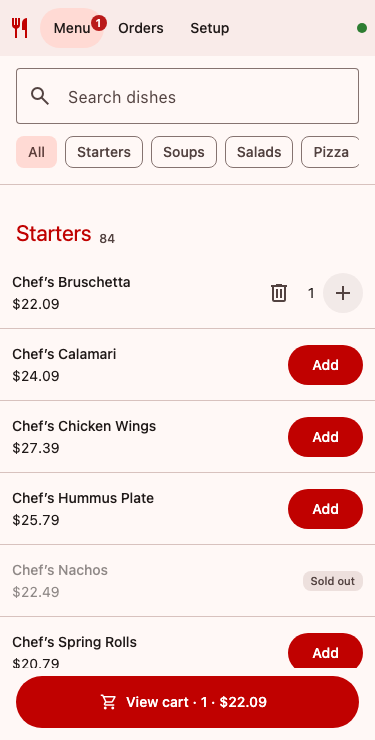
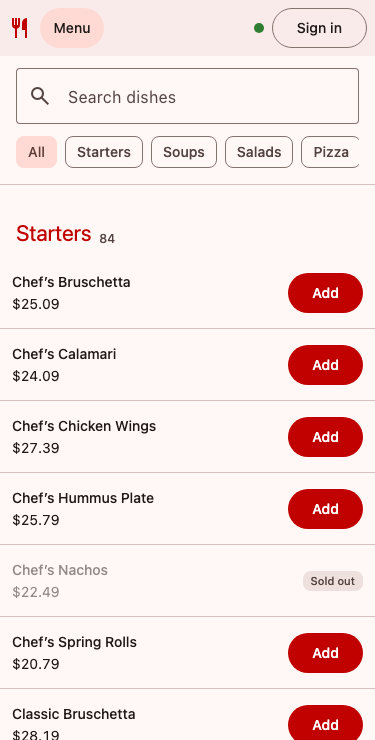
docs: README for auth, promo codes, outbox, observability, edge and scaling

diff --git a/README.md b/README.md
@@ -1,10 +1,10 @@
 # Restaurant Ordering — real-time prototype
 
-Angular 22 + NgRx client and a NestJS server with PostgreSQL, Redis and Socket.IO.
-Menu, prices and availability change live; orders are placed exactly once and
-their statuses update in real time.
+Angular 22 + NgRx client, NestJS API, PostgreSQL, Redis, Socket.IO, behind a Caddy edge.
+Menu, prices and availability change live; orders are placed exactly once; order statuses
+update in real time; promo codes, authentication and admin tools are included.
 
-![Menu with a live price change flagged in the cart](docs/menu-live-change.png)
+![Menu with a promo code applied](docs/menu.png)
 
 ## How to run
 
@@ -14,183 +14,215 @@ The only requirement is **Docker** (Docker Desktop or Docker Engine with Compose
 docker compose up --build
 ```
 
-Open **http://localhost:8080**. The first build takes a few minutes; later starts take seconds.
+Open **http://localhost:8080** (or **https://localhost:8443** for HTTP/2 + HTTP/3; the
+certificate comes from Caddy's local CA, so the browser asks to accept it once).
+The first build takes a few minutes.
 
-| Page | URL | What to try |
+| Account | Email | Password |
 |---|---|---|
-| Menu | `/menu` | Add items, use the quantity steppers, add an open-price item ("Catch of the Day", "Steak by Weight"…), set a discount, check out |
-| Orders | `/orders` | Statuses move `New → Accepted → Cooking → Ready → Completed` every 8 s |
-| Setup | `/setup` | Toggle availability / open price, edit prices, add or delete items and categories |
+| Customer | `guest@trattoria.local` | `guest12345` |
+| Admin | `admin@trattoria.local` | `admin12345` |
 
-Open Setup and Menu in two tabs (or two browsers) to see changes appear live.
+New customers can register on the sign-in page. Demo promo codes: `WELCOME10` (10% off,
+up to $5, once per customer) and `SAVE5` ($5 off orders from $30).
+
+| Page | Who | What to try |
+|---|---|---|
+| `/menu` | everyone | Browse ~1000 items, search, add to cart, open-price items, promo code, checkout (sign-in required) |
+| `/orders` | signed in | Own orders (admins: all, with customer names); statuses move every 8 s; older pages load on demand |
+| `/setup` | admin | Toggle availability / open price, edit, add, delete; edits by two admins at once are detected |
+| `/promos` | admin | Create and edit promo codes, switch them on and off |
+| `/api/docs` | everyone | OpenAPI (Swagger UI) generated from the shared contract |
+
+Open the menu as a customer and Setup as an admin in two browsers to see changes appear live.
 
 ```bash
 docker compose down        # stop
-docker compose down -v     # stop and wipe the database (the demo menu is re-seeded on next start)
+docker compose down -v     # stop and wipe data (the demo menu and accounts are re-created)
 ```
 
-What starts:
+### Observability stack (optional)
 
-```
-            host :8080
-                │
-   ┌────────────┴─────────────┐  network "frontend"
-   │ app (NestJS)             │
-   │  • REST API  /api/*      │
-   │  • Socket.IO /socket.io  │
-   │  • Angular build (static)│
-   └──────┬───────────┬───────┘  network "backend" (internal: no host / internet access)
-          │           │
-   ┌──────┴─────┐ ┌───┴──────┐
-   │ PostgreSQL │ │ Redis 7  │
-   │ 16         │ │          │
-   └────────────┘ └──────────┘
+```bash
+docker compose -f docker-compose.yml -f docker-compose.observability.yml up --build
 ```
 
-The app waits for healthy Postgres and Redis (`depends_on: service_healthy`), applies
-the schema and seeds a demo menu of ~1000 items on first start.
+Grafana http://localhost:3001 (dashboard "Trattoria API") · Prometheus http://localhost:9090 ·
+Alertmanager http://localhost:9093 · Jaeger http://localhost:16686 (traces of every request,
+including SQL and Redis calls). Error reporting goes to Sentry when `SENTRY_DSN` (server) and
+`SENTRY_DSN_CLIENT` (browser) are set.
 
 ### Development without Docker (optional)
 
 Node.js ≥ 22:
 
 ```bash
-npm install   # installs root, server and client dependencies
-npm start     # server on :3000 (in-memory storage) + Angular dev server on :4200
+npm install   # installs the shared contract package, the server and the client
+npm start     # API on :3000 with in-memory storage + Angular dev server on :4200
 ```
 
-Without `DATABASE_URL` / `REDIS_URL` the server uses in-memory implementations of the
-same interfaces, so no database is needed for development or tests.
+Without `DATABASE_URL` / `REDIS_URL` the API uses in-memory implementations of the same
+interfaces, so no database is needed for development or tests.
 
 ### Checks
 
 ```bash
-npm run check   # lint + all tests + production builds (client and server)
+npm run check   # lint + all tests + production builds
 ```
 
-- server: unit tests (pricing rules) and e2e tests through HTTP (idempotency, concurrent
-  double submit, menu-changed conflicts, validation, status updates) — Vitest + Supertest
-- client: reducers, selectors and effects (double click, retries with the same key,
-  stale real-time events, optimistic rollback) — Vitest
-- lint: angular-eslint for the client, oxlint (type-aware) for the server
-- TypeScript runs in strict mode in both projects
+- **server** (Vitest + Supertest): pricing and promo rules; e2e for auth and roles, idempotent
+  and concurrent checkout, menu changes during checkout, optimistic locking (5 simultaneous
+  edits → exactly 1 wins), promo limits under concurrency, pagination, the event log and replay;
+  **provider contract tests** (every route documented; real responses validate against the schemas)
+- **client** (Vitest): reducers, selectors, effects (double click, retries with the same key,
+  replay after reconnect, per-item edit serialisation), guards, interceptor, error reporter;
+  **consumer contract test** (every request the app makes exists in the contract with a valid body)
+- **lint**: angular-eslint + typescript-eslint (explicit return types, no enums, no arrow-function
+  methods), oxlint (type-aware) for the server; TypeScript `strict` everywhere, `strictTemplates`
+
+## Architecture
+
+```
+ browser ──HTTP/1.1 :8080 · HTTP/2+3 :8443──► edge (Caddy)
+   │  service worker: offline shell,          ├─ static app: immutable caching, zstd/gzip, CSP
+   │  cached menu                              ├─ /api/*       → round-robin ┐
+   │                                           └─ /socket.io/* → sticky      ┤
+   │                                                                          ▼
+   │                                       app (NestJS) × 2 replicas ── /metrics :9464 (internal)
+   │                                         REST · Socket.IO · auth · outbox relay (one leader)
+   │                                             │                    │
+   │                                     PostgreSQL 16          Redis 7
+   │                                     data + outbox          pub/sub fan-out, idempotency
+   │                                     (event log)            locks, shared rate limits
+   └──────────── same types ◄── @trattoria/contracts (zod schemas → TS types + OpenAPI)
+```
+
+Databases live on an internal Docker network (unreachable from the host); only the edge is
+published.
 
 ## Key decisions and trade-offs
 
-**Server: NestJS + PostgreSQL + Redis, behind storage ports.**
-Services depend on abstract `MenuRepository`, `OrdersRepository`, `IdempotencyStore`
-and `EventBus` (`server/src/domain/ports.ts`). Docker wires the Postgres/Redis
-implementations; tests and `npm start` use in-memory ones. *Trade-off:* two implementations
-to keep in sync, in exchange for zero-dependency tests and a fast dev loop.
+**One contract package.** `shared/` (`@trattoria/contracts`) holds zod schemas. From them come
+the TypeScript types of both apps, the OpenAPI document (`/api/openapi.json`) and the runtime
+checks in contract tests. The client imports types only, so zod is not in the browser bundle.
+*Trade-off:* a build step for the package, and DTO validation on the server still uses
+class-validator (Nest-native); contract tests keep the two in line.
 
-**An order is never placed twice.** Four independent layers:
-1. the client generates an `Idempotency-Key` per checkout attempt and keeps it (also in
-   `localStorage`) until the order succeeds or the cart changes;
-2. NgRx `exhaustMap` ignores repeated clicks while the request is in flight, and the
-   button is disabled;
-3. the server takes a Redis `SET NX` lock per key: concurrent duplicates get `409
-   ORDER_IN_PROGRESS`, later duplicates get the original order back (`200` +
-   `Idempotent-Replayed`);
-4. a `UNIQUE (idempotency_key)` constraint in Postgres is the last line of defence.
+**Authentication: JWT in an httpOnly, `SameSite=Strict` cookie.** Scripts cannot read the token
+(XSS), the browser does not send it cross-site (CSRF), and the Socket.IO handshake gets it
+automatically. Passwords use scrypt from `node:crypto`. A global guard closes every route unless
+marked `@Public()`; `@Roles('admin')` protects menu and promo management. Customers only see their
+own orders, over REST, replay and WebSocket rooms alike. Idempotency keys are scoped per user.
+*Trade-off:* stateless tokens cannot be revoked before they expire (12 h); a role change applies
+at the next sign-in.
 
-Because of this, network errors and 502–504 are retried automatically with the same key.
+**An order is never placed twice.** Client idempotency key (kept until success or a cart change,
+persisted across reloads) + `exhaustMap` + Redis `SET NX` lock + a unique index in Postgres.
+Network errors are retried with the same key; an order started offline is sent when the browser
+is back online.
 
-**The user is told about menu changes before confirming.** Cart lines remember the price
-the user saw. A selector compares every line with the live menu, so a price change,
-sold-out or removed item shows up in the cart and in the open confirmation dialog at once,
-and blocks checkout until the user presses "Update cart". The server repeats the same check
-(`server/src/orders/pricing.ts`) and answers `409 MENU_CHANGED` with the current state of
-every changed item, which the client applies right away. The server always recalculates
-totals itself, so the client cannot set prices.
+**The user is told about menu changes before confirming.** Cart lines remember the price they
+were added at and are checked live against the menu; the confirmation dialog blocks on any
+change. The server repeats the check and returns `409 MENU_CHANGED` with the current items.
+The server computes all prices and discounts itself.
 
-**Real time: Socket.IO + Redis Pub/Sub.** Socket.IO brings reconnection with backoff,
-heartbeats and a long-polling fallback for networks that block WebSockets. Each API
-instance subscribes to Redis topics (`menu.changes.v1`, `order.lifecycle.v1`), so the app
-can run as several instances. *Trade-off:* Pub/Sub has no replay. On every reconnect the
-client re-fetches menu and orders snapshots instead, and entity `version` numbers make sure
-a late snapshot or an out-of-order event never overwrites newer data.
+**Promo codes instead of a typed discount.** Percent (optionally capped) or fixed amount, minimum
+order, total and per-customer limits, start/end dates, on/off. `computeDiscount` lives in the
+shared package, so the cart shows exactly what will be charged. Redemption happens in the order's
+transaction under `SELECT … FOR UPDATE`, so limits hold under concurrency (8 parallel orders on a
+code limited to 3 → exactly 3 succeed).
 
-**State: NgRx** (store, effects, entity) with `selectSignal`, `OnPush` components and
-zoneless change detection. Admin toggles are optimistic and roll back with a message
-if the server refuses them.
+**Optimistic locking for admin edits.** Writes send `If-Match: "<version>"`; the version check
+is part of the `UPDATE`, so of two concurrent edits one wins and the other gets `412` with the
+current state, which the UI shows. Quick repeated toggles of one item are sent one by one with the
+latest version, so an admin never conflicts with themselves.
 
-**Speed on low-end devices and slow networks.**
-- Lazy-loaded routes; Socket.IO client loaded after first render; initial JS is ~146 kB
-  gzipped. The page shell is painted from `index.html` before Angular boots.
-- The ~1000-item menu uses CDK virtual scrolling with fixed 72 px rows (headers included),
-  so only about 20 rows exist in the DOM.
-- Skeletons with the final sizes and fixed-height rows keep the layout from jumping
-  while data loads. The icon font is a subset of only the 9 glyphs the app uses.
-- gzip compression on the server (the menu payload goes from 237 kB to 38 kB).
-- All money is stored and computed as integer cents.
+**Transactional outbox and replay by sequence number.** Every change writes its event to an
+`outbox` table in the same transaction; appends are serialised so `seq` order equals commit order.
+One relay (leader elected with a Postgres advisory lock, woken by `LISTEN/NOTIFY`) publishes to
+Redis, every replica fans out to its sockets. Snapshots carry their `seq`; after a reconnect the
+client calls `GET /api/events?after=<seq>` and applies only what it missed (full reload only if the
+log was pruned). *Trade-off:* serialised appends cap write throughput (fine for a restaurant);
+delivery is at-least-once, de-duplicated by `seq` and entity versions.
 
-**Reliability.** Errors are turned into human-readable messages (`toApiError`).
-GET requests retry with backoff, and failed page loads show a "Try again" button. A banner
-explains when live updates are paused. The cart survives reloads (`localStorage`, guarded
-for private mode). On the server, Postgres connection retries, a non-fatal broadcast after
-the order is saved, and Docker health checks with `restart: unless-stopped`.
+**Real-time transport.** Socket.IO over WebSocket first (one connection, any replica), long-polling
+as a fallback for networks that block WebSockets; only that fallback needs the sticky cookie on
+`/socket.io`. The REST API is stateless and round-robin. The client reconnects on the browser
+`online` event and shows connection state; heartbeats detect dead connections in ~15 s.
+
+**Performance.** Lazy routes; Socket.IO and Sentry loaded on demand; initial JS ~155 kB gzipped.
+CDK virtual scrolling with fixed 72 px rows for the 1000-item menu; skeletons with final sizes;
+`OnPush` + signals, zoneless change detection. The edge serves hashed bundles with
+`immutable` one-year caching (CDN-ready), compresses with zstd/gzip and speaks HTTP/2 and HTTP/3.
+Pagination for orders is keyset-based, so live orders do not shift pages.
+
+**Reliability.** Human-readable errors everywhere, retries with backoff for reads, "Try again"
+on failed loads, connection banner, cart persisted locally. Service worker: the app shell and the
+last menu work offline; users are told when a new version is ready. Two API replicas; stopping one
+keeps the app working (live updates continue, the outbox relay fails over). Rate limits are shared
+in Redis. Health checks and restarts in Compose.
+
+**Observability.** pino JSON logs with request id, user id and trace id; Prometheus metrics (HTTP
+RED by route, orders, revenue, checkout rejections by reason, version conflicts, sign-ins, outbox
+backlog and age, socket connections) on an internal port; OpenTelemetry traces; Sentry for 5xx and
+browser errors; alert rules for instance down, error rate, latency, a stuck outbox, rejection and
+failed-login spikes.
 
 ## What I deliberately simplified
 
-- **No authentication or roles.** Setup is open to everyone; in reality it is an admin area.
-- **Kitchen simulator.** `OrderStatusSimulator` moves statuses forward on a timer instead
-  of staff doing it. It uses a single atomic `UPDATE`, so it is safe with several instances,
-  but it is not a real workflow (no cancellation, no rejection).
-- **Schema in code** (`CREATE TABLE IF NOT EXISTS` under an advisory lock) instead of
-  versioned migrations.
-- **Last write wins** for concurrent edits by two admins (versions are used only to order
-  real-time events, not for optimistic locking of edits).
-- **Discount** is a plain fixed amount entered by the user and only checked against the
-  subtotal on the server: no promo codes, no limits.
-- **Shared types are duplicated** (`server/src/domain/models.ts` ↔ `client/src/app/core/models.ts`)
-  instead of a shared package or OpenAPI-generated client.
-- **Payments, taxes, currencies, i18n** are out of scope; prices are USD.
-- Orders list returns the last 200 orders without pagination.
+- **Payments, taxes, currencies and i18n** are out of scope: totals are what the customer would
+  pay, in USD, in English. In a real system the order would be authorised with a payment provider
+  (authorize at checkout, capture on completion, refunds), with tax rules per item and locale
+  formatting.
+- **Kitchen simulator.** Statuses move forward on a timer instead of staff actions; there is no
+  cancellation or rejection flow.
+- **Schema in code** (`CREATE … IF NOT EXISTS` / `ALTER … ADD COLUMN IF NOT EXISTS` under an
+  advisory lock) instead of versioned migrations.
+- **Demo secrets and accounts** in `docker-compose.yml`; a local CA certificate for HTTPS; Caddy
+  stands in for both the CDN and the load balancer.
+- **Sessions** are stateless JWTs without refresh tokens or revocation; no password reset or e-mail
+  verification.
+- **Promo codes** cannot be deleted (only switched off) and do not stack.
 
 ## What production would need
 
-- Auth (staff/admin roles, guest sessions), CSRF/CORS tightened to known origins, rate limits per user.
-- Versioned migrations (e.g. node-pg-migrate / Prisma Migrate), backups, managed Postgres & Redis.
-- Transactional outbox (or Kafka/NATS JetStream) so events cannot be lost between DB commit and publish; event replay by sequence number instead of full snapshots.
-- Optimistic locking (`If-Match` / version) for admin edits; audit log of menu changes.
-- Real order workflow (kitchen screen, cancellation, payment provider with authorize/capture).
-- Pagination / incremental sync for menu and orders; HTTP caching (ETag) for the menu snapshot.
-- Shared API contract (OpenAPI or a shared TS package) and contract tests.
-- Observability: structured logs, metrics, tracing, error reporting (Sentry), alerting.
-- Browser E2E tests in CI (Playwright), Lighthouse budgets, accessibility audit.
-- CDN for static assets, HTTP/2, a service worker for offline shell and retries.
-- Horizontal scaling of the API (it already works with several instances thanks to Redis), Socket.IO sticky sessions at the load balancer.
+- Payment provider integration, taxes, multi-currency and i18n (see above).
+- Managed, highly available Postgres and Redis; backups; versioned migrations; secrets from a
+  vault; real certificates; a real CDN in front of the static files.
+- Session revocation (short-lived access token + refresh token or a server-side session list),
+  password reset, MFA for admins, audit log of menu and promo changes.
+- Kafka or NATS JetStream instead of Redis Pub/Sub when other services need the event stream;
+  a dead-letter path for events that cannot be published.
+- Kubernetes (or similar) with autoscaling, rolling deploys and pod disruption budgets.
+- Load and soak tests, browser E2E tests in CI, Lighthouse budgets, accessibility audit.
+- Alert routing (Slack / PagerDuty) and on-call runbooks for the alerts provided.
 
 ## Project structure
 
 ```
-├── docker-compose.yml     Postgres + Redis + app, isolated backend network
-├── Dockerfile             multi-stage: build client, build server, slim runtime image
-├── package.json           root scripts: start / test / lint / build / check
-├── server/                NestJS
-│   ├── src/domain/        models, ports (interfaces)
-│   ├── src/infrastructure/ postgres/, redis/, memory/ implementations, seed
-│   ├── src/menu/          categories & items API
-│   ├── src/orders/        pricing rules, idempotent checkout, status simulator
-│   ├── src/realtime/      Socket.IO gateway
-│   └── test/              e2e tests
-└── client/                Angular
+├── docker-compose.yml                 Postgres, Redis, 2 API replicas, edge
+├── docker-compose.observability.yml   Prometheus, Alertmanager, Grafana, Jaeger
+├── Dockerfile                         targets: app (API), edge (Caddy + static app)
+├── edge/Caddyfile                     caching, CSP, HTTP/2-3, load balancing
+├── observability/                     Prometheus config, alert rules, Grafana dashboard
+├── shared/                            @trattoria/contracts: zod schemas, types, OpenAPI
+├── server/                            NestJS
+│   ├── src/auth/                      sessions, guard, roles
+│   ├── src/menu/  src/orders/  src/promo/
+│   ├── src/events/                    outbox relay, replay endpoint
+│   ├── src/realtime/                  Socket.IO gateway (rooms per user / admins)
+│   ├── src/infrastructure/            postgres/, redis/, memory/ implementations
+│   ├── src/observability/             logging, metrics
+│   ├── src/instrument.ts              OpenTelemetry + Sentry preload
+│   └── test/                          e2e and contract tests
+└── client/                            Angular
     └── src/app/
-        ├── core/          API client, models, error mapping
-        ├── store/         NgRx: menu, cart, orders, connection (+ specs)
-        ├── features/      menu (list, cart, checkout), orders, setup
-        └── shared/        pipes, dialogs, quantity stepper
+        ├── core/                      API client, guards, interceptor, error reporting
+        ├── store/                     NgRx: auth, menu, cart, orders, connection (+ specs)
+        ├── features/                  menu, orders, setup, promos, auth
+        └── shared/                    pipes, dialogs, form helpers
 ```
 
-### API
-
-| Method | Path | Notes |
+| Orders (admin) | Promo codes | Mobile |
 |---|---|---|
-| GET | `/api/menu` | `{ categories, items }` |
-| POST / PATCH / DELETE | `/api/categories[/:id]` | deleting requires an empty category |
-| POST / PATCH / DELETE | `/api/items[/:id]` | PATCH is partial; price required unless `openPrice` |
-| GET | `/api/orders` | latest 200 |
-| POST | `/api/orders` | header `Idempotency-Key`; `409 MENU_CHANGED` with `issues[]` |
-| WS | `/socket.io` | events `menu` and `order` |
-
-![Orders](docs/orders.png)
+| ![Orders](docs/orders.png) | ![Promo codes](docs/promos.png) | ![Mobile](docs/mobile.png) |
